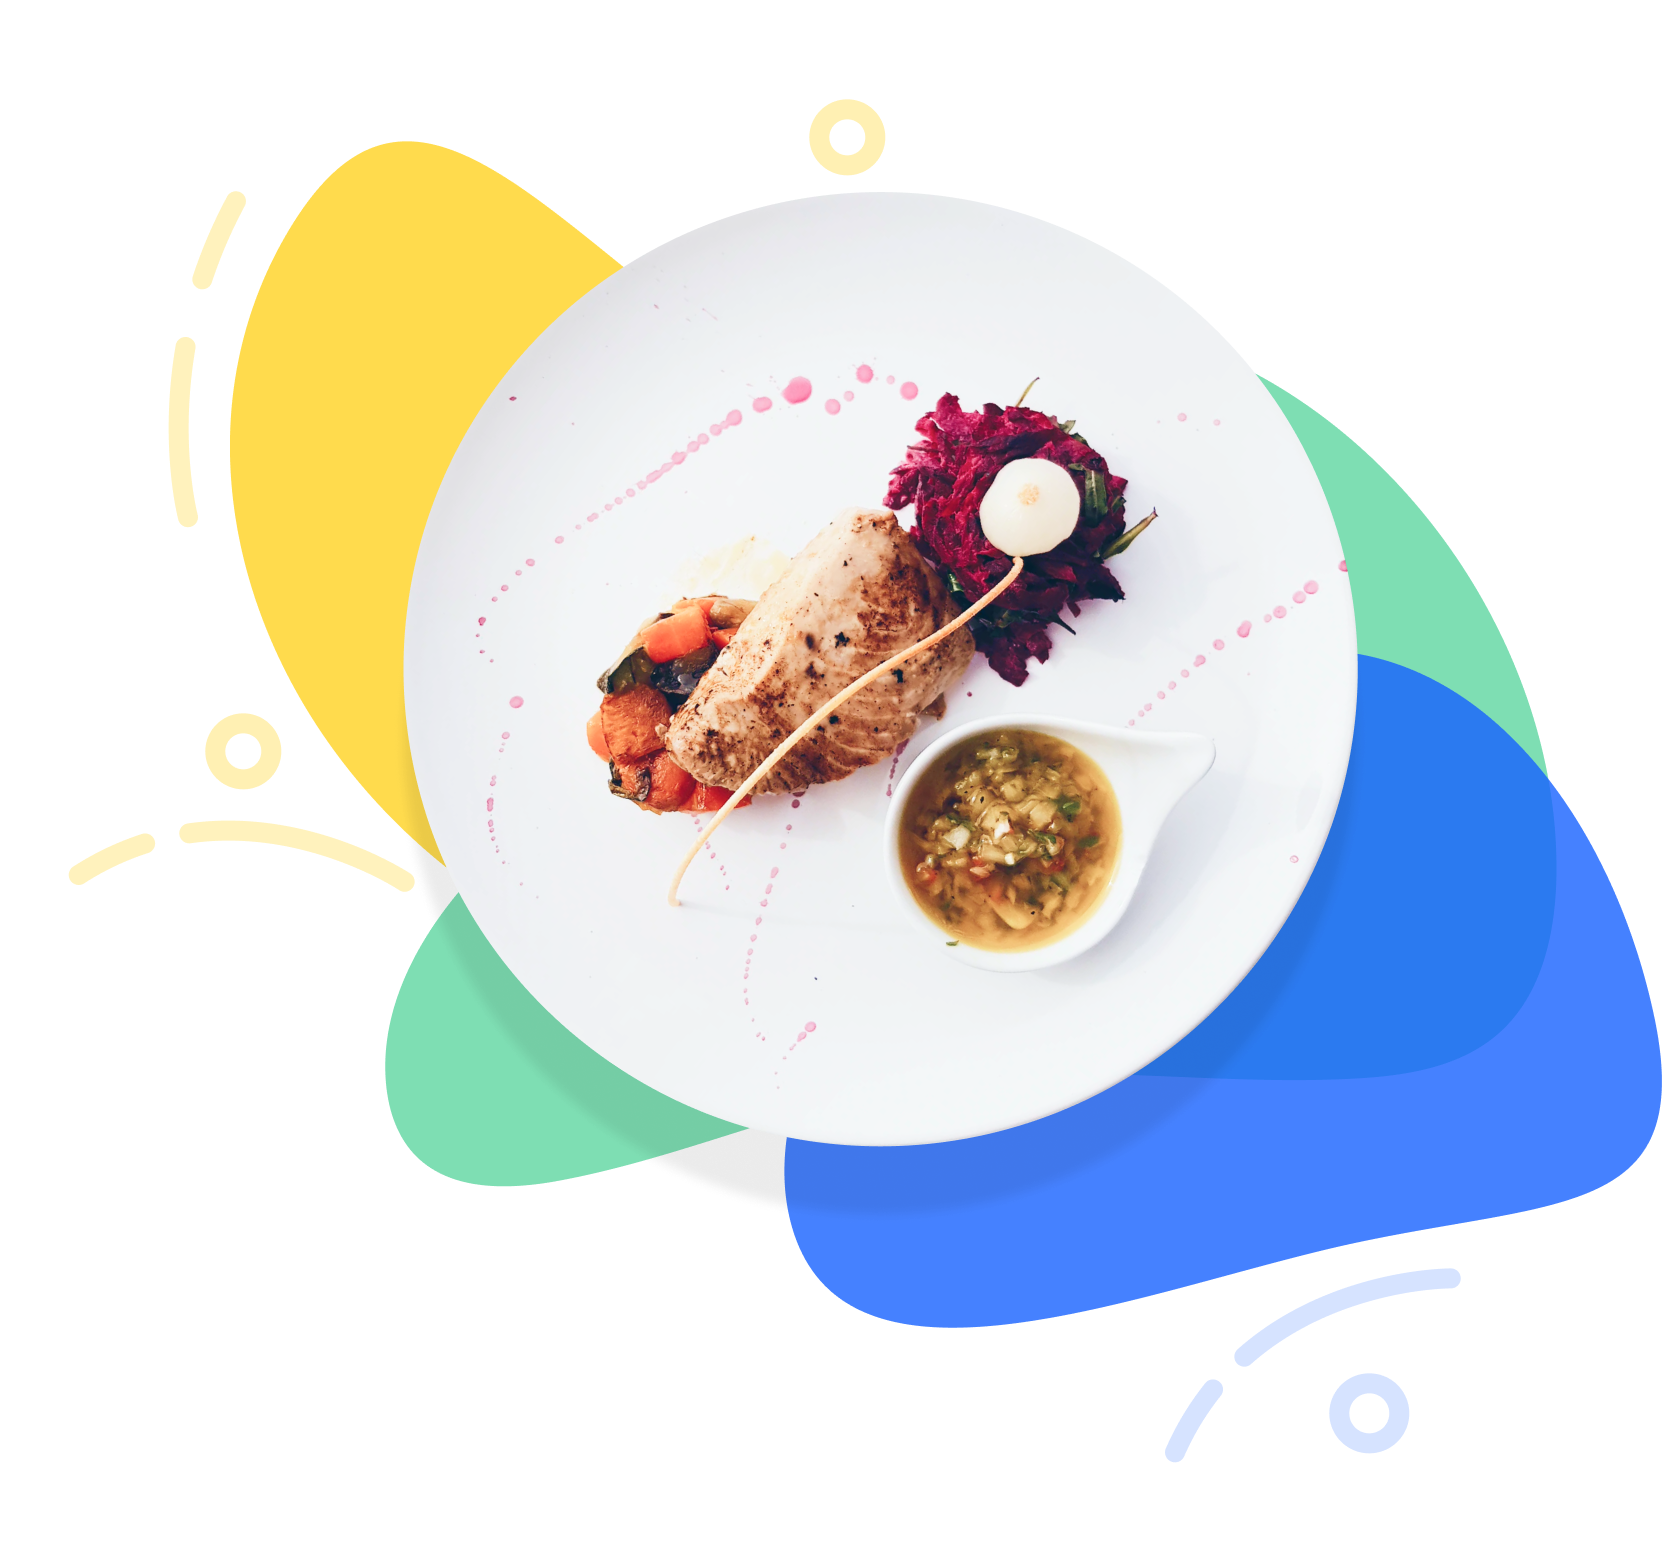
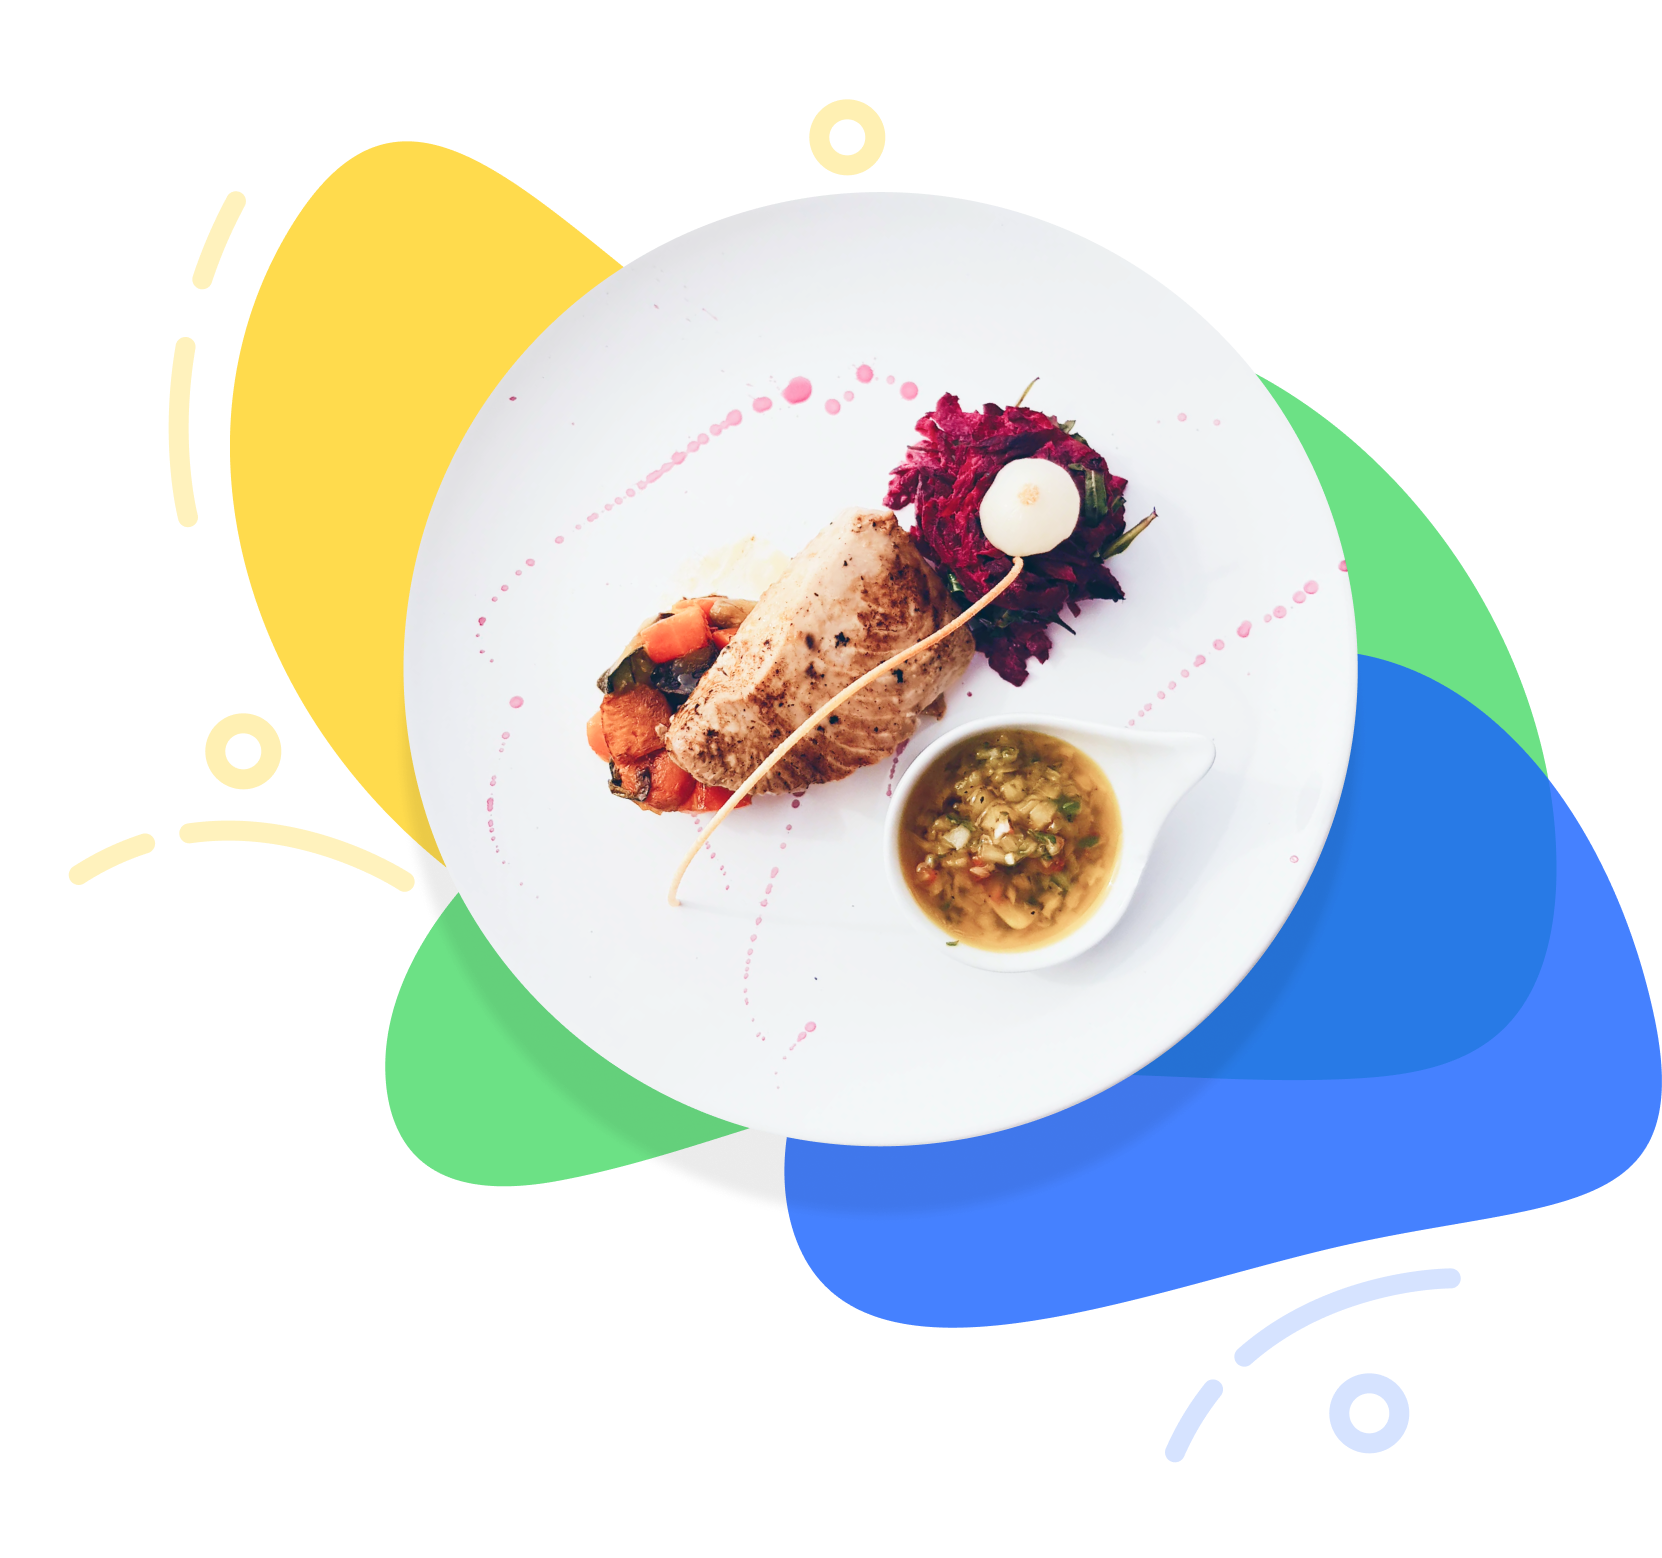
many things added

Changed region(s): [[0.2148, 0.5854, 0.4603, 0.7702], [0.7671, 0.2465, 0.9513, 0.4929]]

diff --git a/src/pages/styles/main.scss b/src/pages/styles/main.scss
@@ -50,6 +50,16 @@ nav {
         text-decoration: none;
         font-weight: 400;
         color: #838383;
+        font-size: 14px;
+        transition: all 0.1s linear;
+        padding: 0.5em 1em;
+
+        &:hover {
+          background-color: #47d966;
+          color: #fff;
+
+          border-radius: 5px;
+        }
       }
     }
   }
@@ -59,16 +69,33 @@ nav {
   max-width: 200px;
 }
 
+.content .input-standard {
+  padding: 10px 15px;
+  border: 0px;
+
+  input {
+    padding: 0px;
+  }
+}
+
 .input-container {
   border: 1px solid #B2B2B2;
   border-radius: 20px;
   padding: 5px;
   width: 100%;
   max-width: 260px;
+  position: relative;
+  background-color: #fff;
+
+  img {
+    position: absolute;
+    top: 8px;
+    left: 10px;
+  }
 
   input {
-    font-size: 16px;
-    padding: 5px 10px;
+    font-size: 14px;
+    padding: 5px 10px 5px 40px;
     width: 100%;
     border: 0px;
     font-family: 'Montserrat', sans-serif;
@@ -76,6 +103,7 @@ nav {
     &:focus {
       outline: none;
     }
+
   }
 }
 
@@ -116,12 +144,12 @@ nav {
 }
 
 .btn--primary {
-  background-color: #5ED6A0;
+  background-color: #47d966;
 }
 
 .btn--sec {
-  color: #5ED6A0;
-  border: 1px solid #5ED6A0;
+  color: #47d966;
+  border: 1px solid #47d966;
   font-size: 12px;
   padding: 5px 10px;
 }
@@ -141,7 +169,7 @@ nav {
 }
 
 footer {
-  background-color: #1761FF;
+  background-color: #171e2c;
   color: #fff;
   padding: 3em 0;
 
@@ -161,6 +189,13 @@ footer {
   }
 }
 
+.social-media-links {
+  img {
+    width: 35px;
+    margin: 1em;
+  }
+}
+
 .footer-logo {
   max-width: 40px;
 }
@@ -173,6 +208,16 @@ footer {
 
 .post-image-top {
   border-radius: 5px;
+  transition: all 0.1s ease-in;
+
+  &:hover {
+    box-shadow: -20px 20px 0px rgba(23, 97, 255, 0.2);
+  }
+}
+
+.post-info {
+  color: #838383;
+  font-size: 12px;
 }
 
 .single-post-header {
@@ -201,7 +246,7 @@ section {
     a {
       color: #fff;
       text-decoration: none;
-      background-color: #5ED6A0;
+      background-color: #47d966;
       border-radius: 5px;
       padding: 0.2em 0.5em;
       font-size: 14px;
@@ -224,10 +269,25 @@ section {
   font-size: 2em;
 }
 
+.push-left {
+  float: left;
+}
+
+.push-right {
+  float: right;
+}
+
 article {
   margin: 2em 0;
   padding: 3em;
   line-height: 1.7;
+  overflow: auto;
+  clear: both;
+
+  img {
+    width: 100%;
+    margin: 3em 0;
+  }
 
   ul,
   ol {
@@ -247,5 +307,27 @@ article {
     border-bottom: 1px solid #c9c9c9;
     padding: 1em 0;
     margin: 40px 0 20px 0;
+    text-transform: uppercase;
+  }
+}
+
+.section--color {
+  background-color: #47D966;
+  color: #fff;
+}
+
+.newsletter-content {
+  display: grid;
+  grid-template-columns: repeat(2, 1fr);
+  column-gap: 30px;
+
+  h1 {
+    font-size: 40px;
+  }
+
+  p {
+    line-height: 1.5;
+    margin: 10px 0px;
+    font-size: 18px;
   }
 }

diff --git a/src/pages/about.js b/src/pages/about.js
@@ -1,11 +1,25 @@
 import React from "react"
 import { Link } from "gatsby"
-import Header from "./components/header"
+import Layout from "./components/layout"
+import pic1 from "./assets/images/pic-1.png"
+
 
 export default () => (
-  <div style={{ color: `teal` }}>
-    <Header/>
-    <h1>About the Chef</h1>
-    <p>This is the about page.</p>
-  </div>
+  <Layout>
+    <div className="content">
+      <article>
+        <h1>Our Family</h1>
+        <img style={{
+          maxWidth: `400px`,
+          padding: `0 2em 0 2em`,
+        }} className="push-left" src={pic1} alt="Amaury and Sheila Dos Santos"/>
+        <p>For many years, my dad has been regarded as the go-to-guy for crazy flavors, and outrages ideas when it comes to both cooking and life. This site, is a gathering of information that I have grown up with, and now we want to share what knowledge we have with everyone else.</p>
+        
+      </article>
+      <article>
+        <h1>Uma Boa Ideia</h1>
+        <p>The idea of creating a written source of typical Brazilian dishes started more than 40 years ago when I was exposed to the need to eat better than when I lived outside my family. The objectivity made me write the recipes with measurements of the ingredients, as much as possible, exact and defined, so that they can be reproduced even by those who do not live with stoves and ovens. I based this process on typical Brazilian foods of where I come from. There are variations from one end to the other of the Brazilian territory that I did not take into account in this process in order to facilitate the user that after a certain cooking practice, each one will be able to make the small modifications more to their taste.</p>
+      </article>
+    </div>
+  </Layout>
 )

diff --git a/src/pages/components/footer.js b/src/pages/components/footer.js
@@ -2,6 +2,9 @@ import React from "react"
 import { Link } from "gatsby"
 
 import Logo from "../assets/images/footer-logo.svg"
+import Youtube from "../assets/images/youtube.svg"
+import Facebook from "../assets/images/facebook.svg"
+import Instagram from "../assets/images/instagram.svg"
 
 export default () => 
 <footer>
@@ -19,10 +22,22 @@ export default () =>
       <li><Link to="/">Terms</Link></li>
       <li><Link to="/about/">Privacy Policy</Link></li>
     </ul>
-    <ul>
-      <li><Link to="/">Facebook</Link></li>
-      <li><Link to="/about/">Instagram</Link></li>
-      <li><Link to="/contact/">Twitter</Link></li>
+    <ul className="social-media-links d-f">
+      <li>
+        <Link to="/">
+          <img src={Facebook} alt="Facebook icon"/>
+        </Link>
+      </li>
+      <li>
+        <Link to="/about/">
+          <img src={Youtube} alt="Youtube icon"/>
+        </Link>
+      </li>
+      <li>
+        <Link to="/contact/">
+          <img src={Instagram} alt="Instagram icon"/>
+        </Link>
+      </li>
     </ul>
   </div>
 </footer>

diff --git a/src/pages/index.js b/src/pages/index.js
@@ -12,12 +12,22 @@ const IndexPage = () => (
   <Layout>
     <section>
       <div className="content d-f content--hero">
-        <div className="hero-info">
+        <div 
+          data-sal="slide-right"
+          data-sal-delay="300"
+          data-sal-duration="900"
+          data-sal-easing="ease" 
+          className="hero-info">
           <h1>Good food, crazy ideas, and lots of fun</h1>
           <p className="tagline">Lorem ipsum dolor sit amet, consectetur adipiscing elit.</p>
           <a className="btn btn--primary" href="">Subscribe</a>
         </div>
-        <img src={Hero} alt="Hero Plate"/>
+        <img 
+          data-sal="slide-left"
+          data-sal-delay="300"
+          data-sal-duration="900"
+          data-sal-easing="ease" 
+          src={Hero} alt="Hero Plate"/>
       </div>
     </section>
     <RecentPosts/>

diff --git a/src/pages/components/news-letter.js b/src/pages/components/news-letter.js
@@ -1,0 +1,18 @@
+import React from "react"
+
+const NewsLetter = () => (
+  <section className="section--color">
+    <div className="content d-f newsletter-content">
+      <div className="f-1">
+        <h1>Our Newsletter</h1>
+        <p>Join our newsletter to recieve all of the latest recipes, tips, and techniques. And don't worry. We promise we won't spam you.</p>
+          <div className="input-container input-standard">
+            <input type="email" name="email" placeholder="Your email..."/>
+          </div>
+        </div>
+
+    </div>
+  </section>
+)
+
+export default NewsLetter

diff --git a/src/pages/components/header.js b/src/pages/components/header.js
@@ -2,12 +2,14 @@ import React from "react"
 import { Link } from "gatsby"
 
 import Logo from "../assets/images/logo.svg"
+import Search from "../assets/images/search.svg"
 
 export default () => 
 <div>
   <nav>
-    <img className="logo" src={Logo} alt="Cracked Pot Kitchen Logo"/>
+    <Link to="/"><img className="logo" src={Logo} alt="Cracked Pot Kitchen Logo"/></Link>
     <div className="input-container">
+      <img src={Search} alt="search icon"/>
       <input type="search" name="search" placeholder="Search..."/>
     </div>
     <ul>

diff --git a/src/templates/Post.js b/src/templates/Post.js
@@ -5,7 +5,11 @@ import { slugify } from "../util/utilityFunctions"
 
 const Post = ({ title, author, slug, date, body, fluid, tags }) => {
   return(
-      <div className="post">
+      <div 
+        data-sal="slide-up"
+        data-sal-duration="900"
+        data-sal-easing="ease"  
+        className="post">
         <Link to={slug}><Img className="post-image-top" fluid={fluid}/></Link>
         <div className="post-body">
           <h1 className="post-title">

diff --git a/src/pages/components/layout.js b/src/pages/components/layout.js
@@ -3,6 +3,7 @@ import "./../styles/main.scss"
 
 import Header from './header'
 import Footer from './footer'
+import NewsLetter from './news-letter'
 
 class Template extends React.Component {
     render() {
@@ -12,6 +13,7 @@ class Template extends React.Component {
             <div>
                 <Header/>
                 {children}
+                <NewsLetter/>
                 <Footer/>
             </div>
         )

diff --git a/gatsby-config.js b/gatsby-config.js
@@ -18,6 +18,7 @@ module.exports = {
     `gatsby-plugin-react-helmet`,
     `gatsby-transformer-remark`,
     `gatsby-transformer-remark`,
+    `gatsby-plugin-scroll-reveal`,
     {
       resolve: `gatsby-source-filesystem`,
       options: {

diff --git a/src/pages/posts/05-02-2020/index.md b/src/pages/posts/05-02-2020/index.md
@@ -6,12 +6,12 @@ tags: ["drinks", " Brazilian"]
 featuredImage: ../../../images/drink-1.png
 ---
 
-# Story
+# Top 5 Drinks For Your Summer Parties
 
 While the effects of COVID-19 have left a lot of things uncertain, we can still plan and hope for the future. One thing that is around the corner (if not already here) is summer time. And that means, a nice cool beverage while catching some rays outside.
 <br/>
 
-### THE LITTLE PRINCESS
+### NO. 1 - THE LITTLE PRINCESS
 
 - 1 Portion of clear Rum
 - 1 Portion of sweet vermouth
